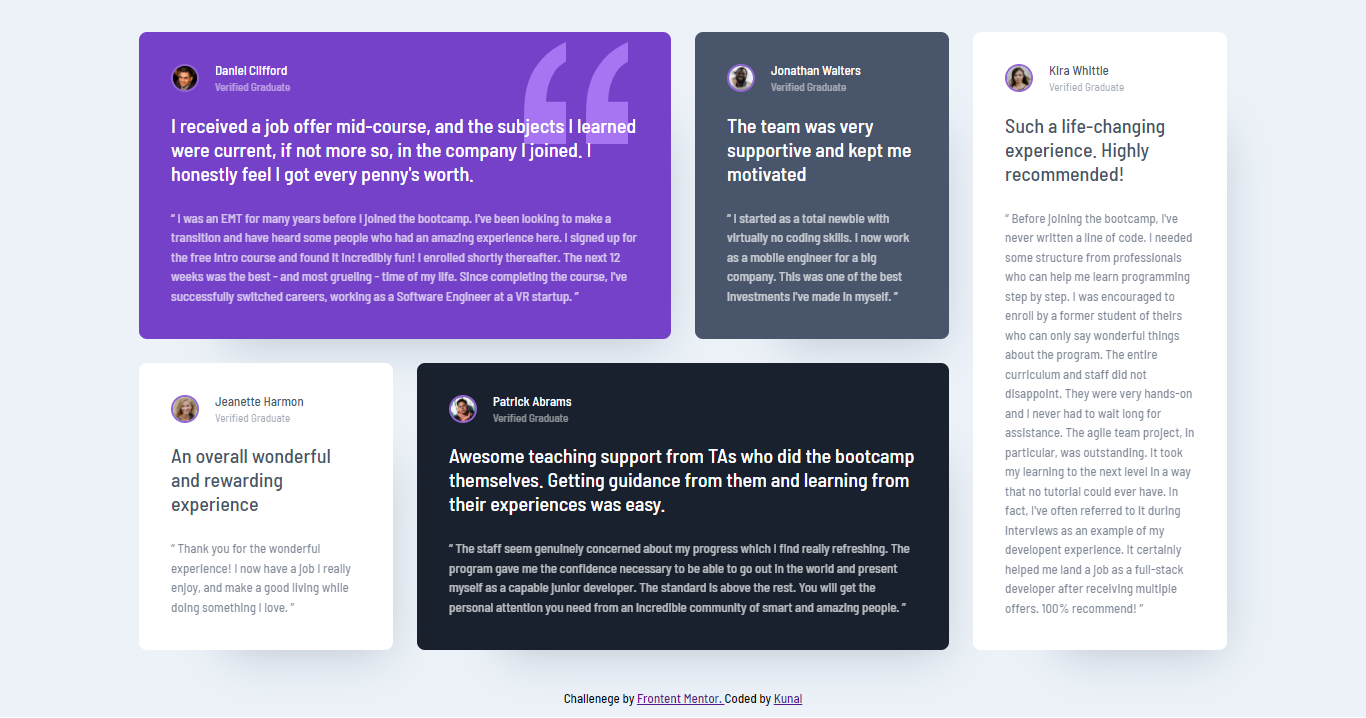
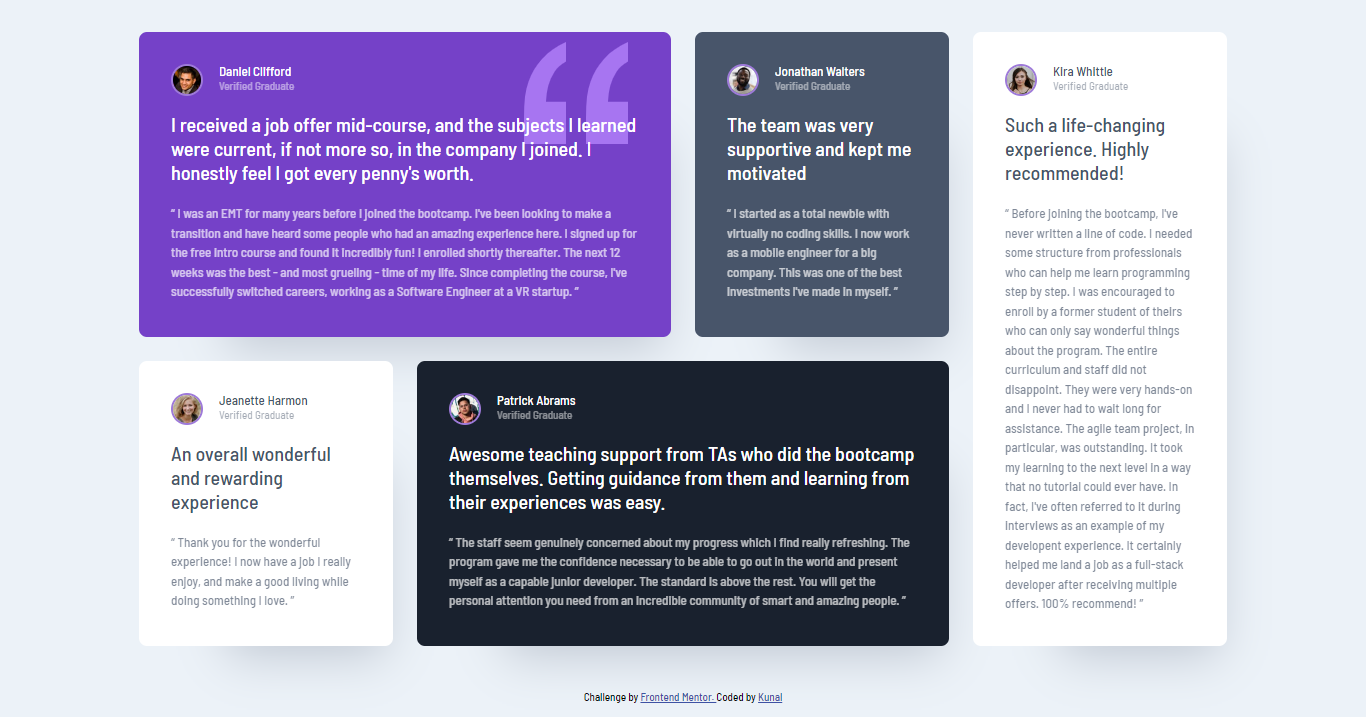
Updated

diff --git a/index.html b/index.html
@@ -4,24 +4,24 @@
     <meta charset="UTF-8" />
     <meta http-equiv="X-UA-Compatible" content="IE=edge" />
     <meta name="viewport" content="width=device-width, initial-scale=1.0" />
-    <title>Frontend Mentor | Testimonials grid section challenge</title>
+    <title>Frontend Mentor | Testimonials grid section</title>
     <link rel="preconnect" href="https://fonts.googleapis.com" />
     <link rel="preconnect" href="https://fonts.gstatic.com" crossorigin />
     <link
       href="https://fonts.googleapis.com/css2?family=Barlow+Semi+Condensed:wght@500;600&display=swap"
       rel="stylesheet"
     />
-    <link rel="stylesheet" href="style.css" />
-    <link rel="stylesheet" href="responsive.css">
+    <link rel="stylesheet" href="./style.css" />
+    <link rel="stylesheet" href="./responsive.css" />
     <link
       rel="shortcut icon"
-      href="images/favicon-32x32.png"
+      href="./images/favicon-32x32.png"
       type="image/x-icon"
     />
   </head>
   <body>
     <main>
-      <div class="testimonials__container">
+      <div class="testimonials-container">
         <div class="testimonial testimonial--bg-violet">
           <header class="testimonial__header">
             <img
@@ -30,8 +30,8 @@
               class="testimonial__img"
             />
             <div class="testimonial__author">
-              <p>Daniel Clifford</p>
-              <span>Verified Graduate</span>
+              <h5>Daniel Clifford</h5>
+              <p>Verified Graduate</p>
             </div>
           </header>
           <p class="testimonial__lead">
@@ -59,8 +59,8 @@
               class="testimonial__img"
             />
             <div class="testimonial__author">
-              <p>Jonathan Walters</p>
-              <span>Verified Graduate</span>
+              <h5>Jonathan Walters</h5>
+              <p>Verified Graduate</p>
             </div>
           </header>
           <p class="testimonial__lead">
@@ -82,8 +82,8 @@
               class="testimonial__img"
             />
             <div class="testimonial__author">
-              <p>Jeanette Harmon</p>
-              <span>Verified Graduate</span>
+              <h5>Jeanette Harmon</h5>
+              <p>Verified Graduate</p>
             </div>
           </header>
           <p class="testimonial__lead">
@@ -104,8 +104,8 @@
               class="testimonial__img"
             />
             <div class="testimonial__author">
-              <p>Patrick Abrams</p>
-              <span>Verified Graduate</span>
+              <h5>Patrick Abrams</h5>
+              <p>Verified Graduate</p>
             </div>
           </header>
           <p class="testimonial__lead">
@@ -132,8 +132,8 @@
               class="testimonial__img"
             />
             <div class="testimonial__author">
-              <p>Kira Whittle</p>
-              <span>Verified Graduate</span>
+              <h5>Kira Whittle</h5>
+              <p>Verified Graduate</p>
             </div>
           </header>
           <p class="testimonial__lead">
@@ -158,14 +158,14 @@
       </div>
     </main>
 
-    <footer>
-      <p class="footer-text">
-        Challenege by
+    <footer class="footer">
+      <p class="footer__text">
+        Challenge by
         <a
           href="https://www.frontendmentor.io/challenges/testimonials-grid-section-Nnw6J7Un7"
           target="_blank"
         >
-          Frontent Mentor.
+          Frontend Mentor.
         </a>
         Coded by
         <a

diff --git a/style.css b/style.css
@@ -1,79 +1,98 @@
-* {
+:root {
+  --moderate-violet: hsl(263, 55%, 52%);
+  --v-dark-grayish-blue: hsl(217, 19%, 35%);
+  --v-dark-blackish-blue: hsl(219, 29%, 14%);
+  --white: hsl(0, 0%, 100%);
+  --light-gray: hsl(0, 0%, 81%);
+  --light-grayish-blue: hsl(210, 46%, 95%);
+}
+
+*,
+*::before,
+*::after {
   padding: 0;
   margin: 0;
   box-sizing: border-box;
 }
 
+img {
+  max-width: 100%;
+  display: block;
+}
+
 body {
   min-height: 100vh;
-  background-color: hsl(210, 46%, 95%);
+  display: grid;
+  place-content: center;
+  background-color: var(--light-grayish-blue);
   font-size: 0.8125rem;
   font-family: "Barlow Semi Condensed", sans-serif;
   font-weight: 500;
   line-height: 1.5;
-  display: grid;
-  place-items: center;
 }
 
-/*****************/
+/******************/
 /* TESTIMONIALS */
-/*****************/
+/******************/
 
-.testimonials__container {
+.testimonials-container {
+  width: 100%;
   max-width: 72rem;
-  padding-block: 2rem;
-  padding-inline: 2rem;
   margin-inline: auto;
+  padding-inline: 2rem;
+  padding-block: 2rem;
   display: grid;
   gap: 1.5rem;
 }
 
 .testimonial {
-  color: hsl(217, 19%, 35%);
-  background-color: hsl(0, 0%, 100%);
-  padding: 2rem;
+  background-color: var(--white);
+  color: var(--v-dark-grayish-blue);
   border-radius: 0.5rem;
-  box-shadow: 40px 51px 48px -48px rgba(72, 85, 106, 0.294);
-}
-
-.testimonial--bg-violet,
-.testimonial--bg-gray-blue,
-.testimonial--bg-black-blue {
-  color: hsl(0, 0%, 100%);
+  padding: 2rem;
+  box-shadow: 2.5rem 3.75rem 3rem -3rem rgba(72, 85, 106, 0.25);
 }
 
 .testimonial--bg-violet {
-  background-color: hsl(263, 55%, 52%);
+  background-color: var(--moderate-violet);
   background-image: url(./images/bg-pattern-quotation.svg);
   background-repeat: no-repeat;
   background-position: top 5% right 10%;
 }
 
 .testimonial--bg-gray-blue {
-  background-color: hsl(217, 19%, 35%);
+  background-color: var(--v-dark-grayish-blue);
 }
 
 .testimonial--bg-black-blue {
-  background-color: hsl(219, 29%, 14%);
+  background-color: var(--v-dark-blackish-blue);
+}
+
+.testimonial--bg-violet,
+.testimonial--bg-gray-blue,
+.testimonial--bg-black-blue {
+  color: var(--white);
 }
 
 .testimonial__header {
   display: flex;
+  align-items: center;
   gap: 1rem;
 }
 
 .testimonial__img {
-  width: 1.75rem;
-  height: 1.75rem;
+  width: 2rem;
   border-radius: 50%;
-  border: 0.125rem solid #9066d2;
+  border: 2px solid #9e7ad9;
 }
 
-.testimonial__author p {
+.testimonial__author h5 {
+  font-size: 0.8125rem;
+  font-weight: 500;
   line-height: 1;
 }
 
-.testimonial__author span {
+.testimonial__author p {
   font-size: 0.6875rem;
   opacity: 50%;
 }
@@ -81,18 +100,27 @@ body {
 .testimonial__lead {
   font-size: 1.25rem;
   line-height: 1.2;
-  margin-block: 1rem 1.5rem;
+  margin-block-start: 1rem;
+  margin-block-end: 1.25rem;
 }
 
 .testimonial__quote {
   opacity: 70%;
 }
 
-/*****************/
+/******************/
 /* FOOTER */
-/*****************/
+/******************/
 
-.footer-text {
+.footer {
+  padding-block: 0.75rem;
   text-align: center;
-  padding-block: 0.5rem;
+}
+
+.footer__text {
+  font-size: 0.6875rem;
+}
+
+.footer__text a {
+  color: hsl(228, 45%, 44%);
 }

diff --git a/responsive.css b/responsive.css
@@ -1,8 +1,5 @@
-/*****************/
-/* MEDIA QUERIES */
-/*****************/
 @media (min-width: 48em) {
-  .testimonials__container {
+  .testimonials-container {
     grid-template-columns: repeat(2, 1fr);
   }
 
@@ -18,7 +15,7 @@
 }
 
 @media (min-width: 62em) {
-  .testimonials__container {
+  .testimonials-container {
     grid-template-columns: repeat(3, 1fr);
   }
 
@@ -34,7 +31,7 @@
 }
 
 @media (min-width: 75em) {
-  .testimonials__container {
+  .testimonials-container {
     grid-template-columns: repeat(4, 1fr);
   }
 
